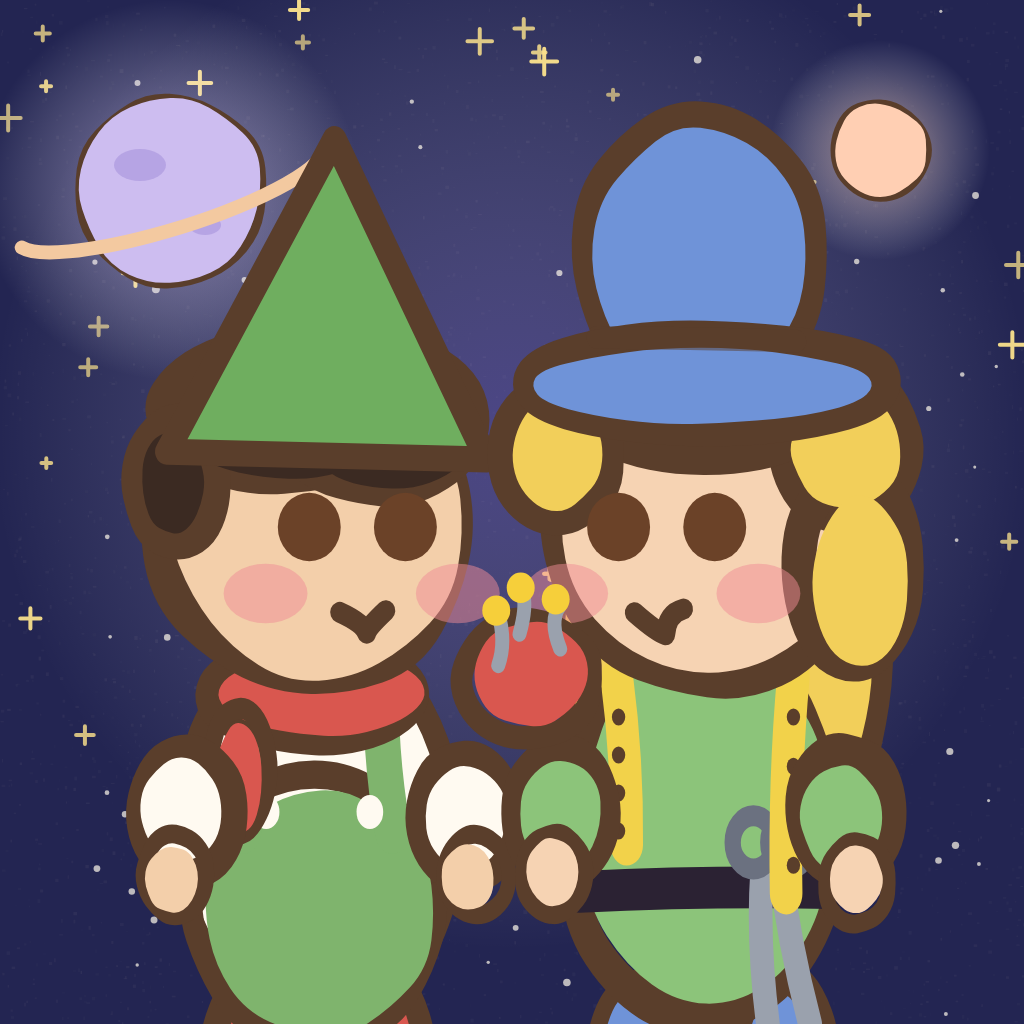
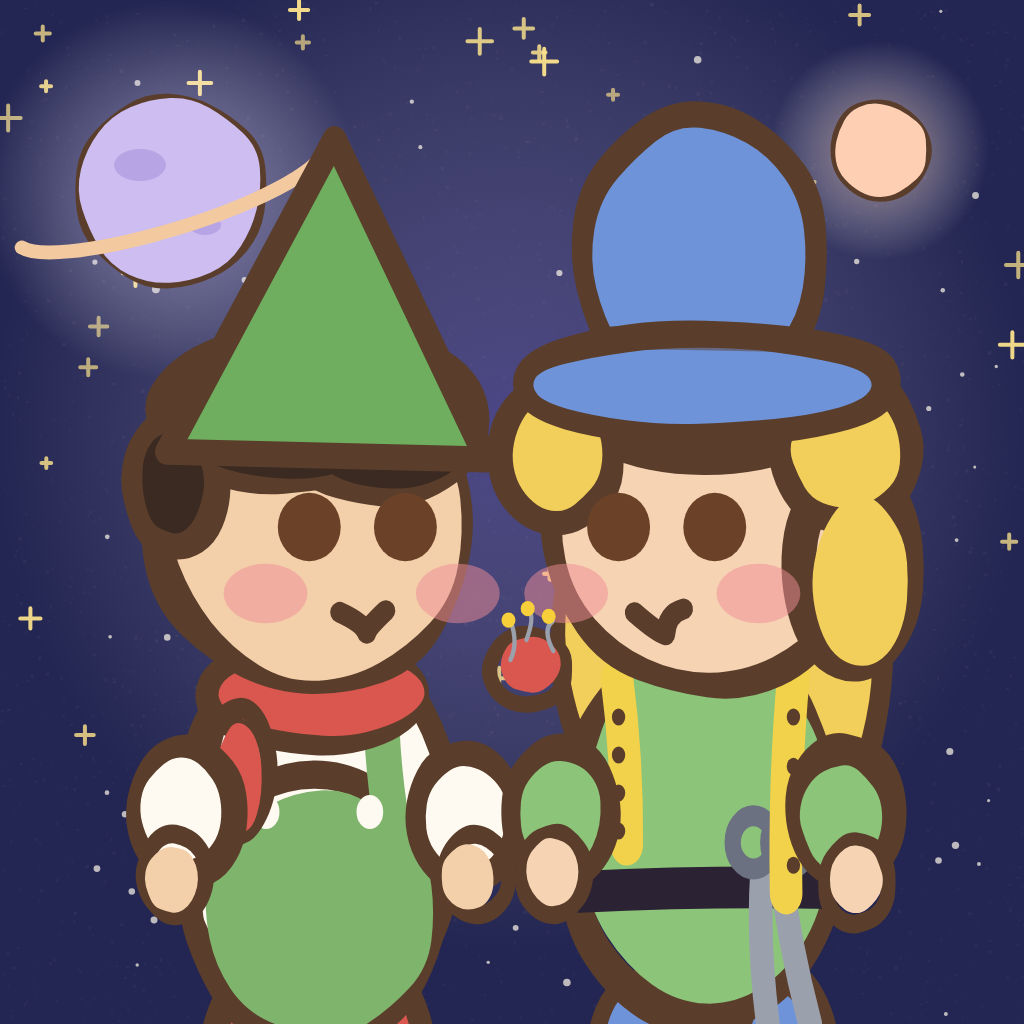
Ships & Villagers: smaller pincushion with thin pins for John Taylor
Claude-Session: https://claude.ai/code/session_01ASV8YkCMdQTbwywQfpxmjg

Changed region(s): [[0.4375, 0.5625, 0.5938, 0.75]]

diff --git a/ships-and-villagers/index.html b/ships-and-villagers/index.html
@@ -304,7 +304,7 @@ if(s.nose){wline(c,[[7,-28.5],[13+(s.noseLen||0),-28.5]],4.2);wline(c,[[7,-28.5]
 if(s.mustache){wline(c,[[2.4,-25.6],[-1.5,-25],[-3.6,-27.6]],1.9,s.hc);wline(c,[[2.4,-25.6],[6.5,-25],[8.8,-27.6]],1.9,s.hc)}
 else wline(c,[[1.4+f,-25.5],[2.6+f,-24.6],[3.8+f,-25.5]],1.1);
 if(s.collar)dot(c,0,-22,2,'#fffaf1');
-if(s.pincushion){puffs(c,[[10,-22,3.8,3.2,'#d9574f']],2);[[8.6,-25],[10.6,-25.6],[12,-24.4]].forEach(p=>{wline(c,[[p[0],p[1]+1.5],[p[0],p[1]-1]],0.8,'#9aa1ad');dot(c,p[0],p[1]-1.2,0.8,'#f6cf3a')})}
+if(s.pincushion){puffs(c,[[10,-22.5,2.2,1.9,'#d9574f']],1.4);[[9,-24.2],[10.2,-24.6],[11.3,-24]].forEach(p=>{wline(c,[[p[0],p[1]+0.8],[p[0],p[1]-1]],0.25,'#9aa1ad');dot(c,p[0],p[1]-1.1,0.4,'#f6cf3a')})}
 if(s.bird){puffs(c,[[10.5,-22,4,3.2,'#f2c14e']],2);puffs(c,[[8.4,-25.6,2.6,2.4,'#f2c14e']],1.8);puffs(c,[[6.2,-25.4,1.3,0.9,'#f3a66b']],1);dot(c,8.4,-26.4,0.6);wline(c,[[13.5,-21],[16,-19]],1.6,'#e0a82e')}
 c.restore();c.restore();
 if(s.boots&&s.fur)puffs(c,[[-3.6,-11.5,4,1.8,'#f4ead8'],[3.6,-11.5,4,1.8,'#f4ead8']],1.8);

diff --git a/studio/STATUS.md b/studio/STATUS.md
@@ -37,6 +37,7 @@ A comparison of the Bank Game versions (features, fun, systems lessons) is in `t
 
 ## Recent changes
 
+- 2026-11-15: Ships & Villagers: John Taylor's pincushion made eye-sized with thin pins (game and Home Screen icon). Commit `f4f297e`.
 - 2026-11-15: Ships & Villagers: Home Screen icon is now Joseph and John Taylor on a starry sky (art drawn with the game's own code, `tools/ships_and_villagers_icon.py`); short-hair tuft tidied so it no longer looks like an eye patch. Commit `5ae9917`.
 - 2026-11-15: New game Ships & Villagers (World 1) added (folder, dashboard card, README link, Home Screen icon, archive spec), commit `b64fcb4`, on `main`. Same file as the claude.ai artifact.
 - 2026-11-13: New game Banana Slug Arena added (folder, dashboard card, README link, Home Screen icon, archive spec), commit `f34ed1a`, on `main`. Same file as the claude.ai artifact.
